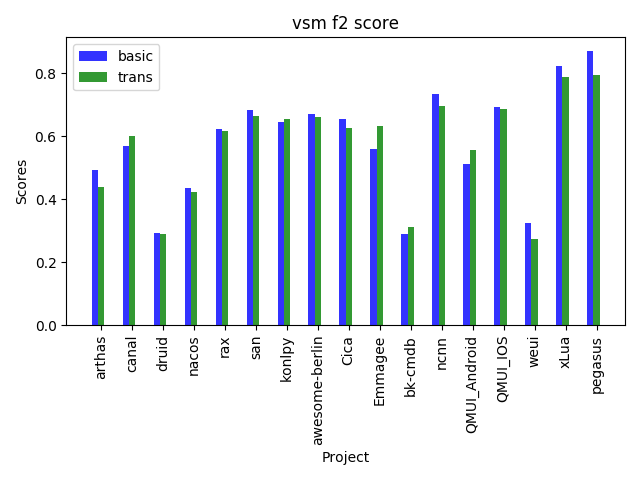
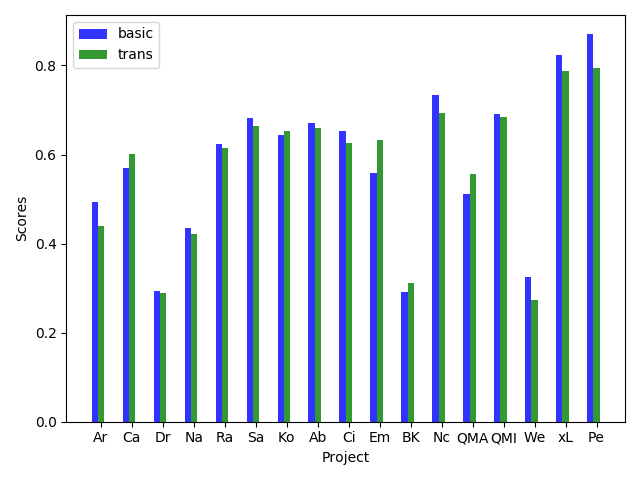
modify graph

diff --git a/main/reborn/experiments/Experiment2/plot/box_plot/exp2_boxplot.py b/main/reborn/experiments/Experiment2/plot/box_plot/exp2_boxplot.py
@@ -9,9 +9,21 @@ def split_gvsm(data_dict):
     others = dict()
     for k in data_dict.keys():
         if k.startswith("gvsm"):
-            gvsms[k] = data_dict[k]
+            if k == "gvsm_clwv":
+                t = "clwv_gvsm"
+            if k == "gvsm_enwv":
+                t = "enwv_gvsm"
+            if k == "gvsm_enwv_trans":
+                t = "enwv_gvsm+trans"
+            gvsms[t] = data_dict[k]
         else:
-            others[k] = data_dict[k]
+            if k == "lda_trans":
+                t = "lda+trans"
+            if k == "lsi_trans":
+                t = "lsi+trans"
+            if k == "vsm_trans":
+                t = "vsm+trans"
+            others[t] = data_dict[k]
     return gvsms, others
 
 
@@ -41,10 +53,10 @@ if __name__ == "__main__":
     valid_projects.extend(
         ["alibaba/arthas", "alibaba/canal", "alibaba/druid", "alibaba/nacos", "alibaba/rax"])
     valid_projects.extend(["baidu/san", "Tencent/bk-cmdb",
-                      "Tencent/ncnn", "Tencent/QMUI_Android", "Tencent/QMUI_IOS",
-                      "Tencent/weui","NetEase/Emmagee",])
+                           "Tencent/ncnn", "Tencent/QMUI_Android", "Tencent/QMUI_IOS",
+                           "Tencent/weui", "NetEase/Emmagee", ])
     valid_projects.extend(
-        ["marlonbernardes/awesome-berlin", "konlpy/konlpy","miiton/Cica"])
+        ["marlonbernardes/awesome-berlin", "konlpy/konlpy", "miiton/Cica"])
 
     valid_projects = [x.split("/")[1] for x in valid_projects]
 
@@ -75,7 +87,6 @@ if __name__ == "__main__":
         f2_gvsm, f2_other = split_gvsm(f2_dict)
         map_gvsm, map_other = split_gvsm(map_dict)
 
-
         box_plot(f1_gvsm, "f1_gvsm")
         box_plot(f1_other, "f1_other")
 
@@ -85,15 +96,14 @@ if __name__ == "__main__":
         box_plot(map_gvsm, "map_gvsm")
         box_plot(map_other, "map_other")
 
-
         fig3_f2 = dict()
         fig3_map = dict()
 
-        fig3_f2["vsm_trans"] = f2_other["vsm_trans"]
-        fig3_f2["gvsm_enwv_trans"] = f2_gvsm["gvsm_enwv_trans"]
+        fig3_f2["vsm+trans"] = f2_other["vsm+trans"]
+        fig3_f2["enwv_gvsm+trans"] = f2_gvsm["enwv_gvsm+trans"]
 
-        fig3_map["vsm_trans"] = map_other["vsm_trans"]
-        fig3_map["gvsm_enwv_trans"] = map_gvsm["gvsm_enwv_trans"]
+        fig3_map["vsm+trans"] = map_other["vsm+trans"]
+        fig3_map["enwv_gvsm+trans"] = map_gvsm["enwv_gvsm+trans"]
 
         box_plot(fig3_f2, "Compare F2 score of gvsm_tran and vsm_trans ")
         box_plot(fig3_map, "Compare MAP score of gvsm_tran and vsm_trans ")

diff --git a/main/reborn/experiments/Experiment2/plot/bar_chart/exp2_barchart.py b/main/reborn/experiments/Experiment2/plot/bar_chart/exp2_barchart.py
@@ -4,6 +4,24 @@ import os
 import matplotlib.pyplot as plt
 import numpy as np
 
+pj_name_convert = dict()
+pj_name_convert["arthas"] = "Ar"
+pj_name_convert["canal"] = "Ca"
+pj_name_convert["druid"] = "Dr"
+pj_name_convert["nacos"] = "Na"
+pj_name_convert["rax"] = "Ra"
+pj_name_convert["san"] = "Sa"
+pj_name_convert["Emmagee"] = "Em"
+pj_name_convert["bk-cmdb"] = "BK"
+pj_name_convert["ncnn"] = "Nc"
+pj_name_convert["QMUI_Android"] = "QMA"
+pj_name_convert["QMUI_IOS"] = "QMI"
+pj_name_convert["weui"] = "We"
+pj_name_convert["xLua"] = "xL"
+pj_name_convert["pegasus"] = "Pe"
+pj_name_convert["konlpy"] = "Ko"
+pj_name_convert["Cica"] = "Ci"
+pj_name_convert["awesome-berlin"] = "Ab"
 
 def split_gvsm(data_dict):
     gvsms = dict()
@@ -35,10 +53,10 @@ def fig3_plot(data_dict, title, labels):
 
     plt.xlabel('Project')
     plt.ylabel('Scores')
-    plt.title(title)
+    #plt.title(title)
 
     titles = [str(x) for x in labels]
-    plt.xticks(index + bar_width, titles, rotation='vertical')
+    plt.xticks(index + bar_width, titles)
     plt.legend()
 
     plt.tight_layout()
@@ -88,11 +106,12 @@ def bar_plot(data_dict, model, title, labels):
 
     plt.xlabel('Project')
     plt.ylabel('Scores')
-    plt.title(title)
+    #plt.title(title)
 
     # titles = [str(x) for x in range(26)]
-    titles = [str(x) for x in labels]
-    plt.xticks(index + bar_width, titles, rotation='vertical')
+
+    titles = [pj_name_convert[str(x)] for x in labels]
+    plt.xticks(index + bar_width, titles)
     plt.legend()
 
     plt.tight_layout()
